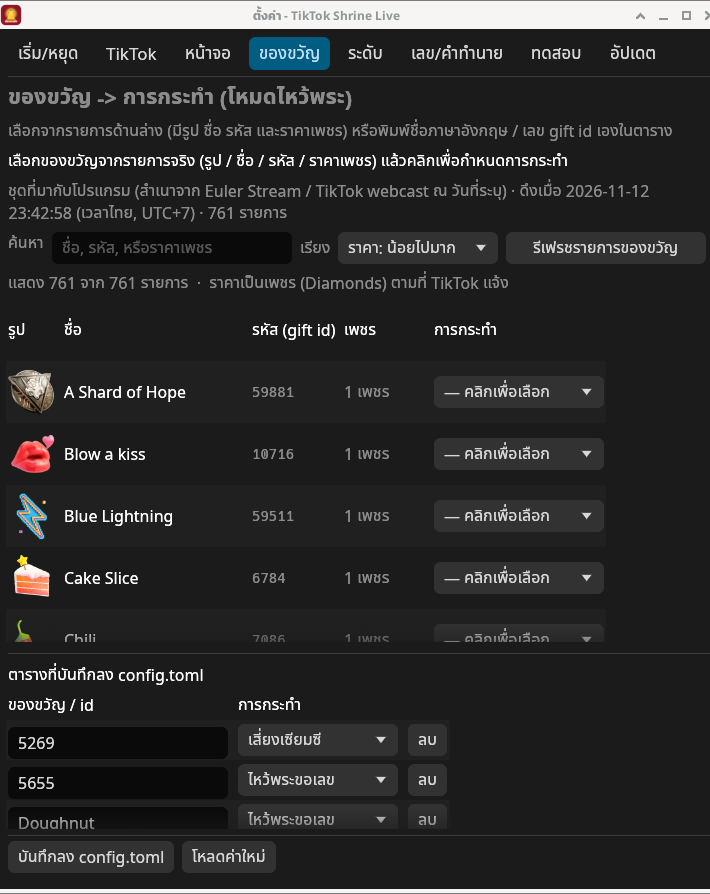
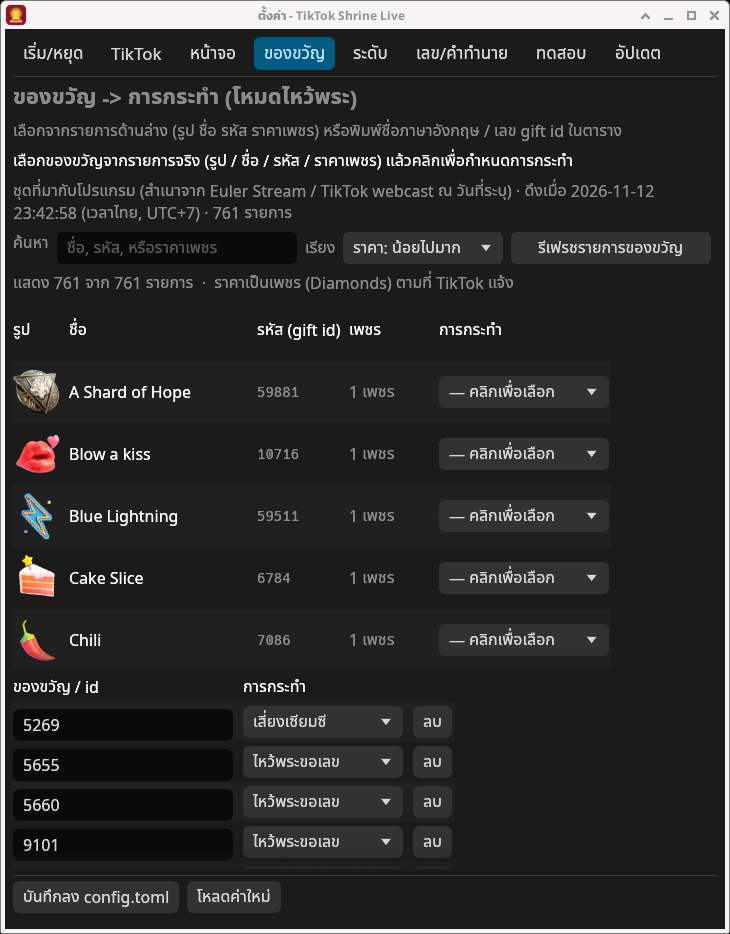
Fix default gift mappings to match the real catalog
Replace retired names: Hand Hearts -> Hand Heart (id 5660, 100 diamonds)
and Universe -> TikTok Universe (id 9101). Every default mapping in
config.toml and config.example.toml is checked against the bundled
761-gift snapshot. Docs examples and the picker screenshot are updated
so catalog rows are no longer clipped at the scroll edge.

diff --git a/src/gifts.rs b/src/gifts.rs
@@ -669,4 +669,36 @@ mod tests {
         );
         let _ = std::fs::remove_dir_all(dir);
     }
+
+    #[test]
+    fn default_mappings_exist_in_bundled_catalog() {
+        let cat = GiftCatalog::bundled().expect("bundled snapshot");
+        let builtin = crate::config::Config::builtin();
+        let example: crate::config::Config = toml::from_str(include_str!("../config.example.toml"))
+            .expect("config.example.toml must parse");
+        for (label, cfg) in [("config.toml", &builtin), ("config.example.toml", &example)] {
+            let sections = [
+                ("[gifts]", &cfg.gifts),
+                ("[krathong.gifts]", &cfg.krathong.gifts),
+                ("[cat.gifts]", &cfg.cat.gifts),
+            ];
+            for (section, map) in sections {
+                for key in map.keys() {
+                    assert!(
+                        cat.find_by_key(key).is_some(),
+                        "{label} {section} key {key:?} is not in the bundled catalog"
+                    );
+                }
+            }
+        }
+        assert!(cat.find_by_key("Hand Heart").is_some());
+        assert!(cat.find_by_key("5660").is_some());
+        assert!(cat.find_by_key("TikTok Universe").is_some());
+        assert_eq!(
+            cat.find_by_key("9101").map(|g| g.name.as_str()),
+            Some("TikTok Universe")
+        );
+        assert!(cat.find_by_key("Hand Hearts").is_none());
+        assert!(cat.find_by_key("Universe").is_none());
+    }
 }

diff --git a/src/app.rs b/src/app.rs
@@ -1868,7 +1868,7 @@ impl ShrineApp {
     // ------------------------------------------------------------------ settings window
     fn settings_ui(&mut self, ctx: &egui::Context) {
         let mut open = self.settings_open;
-        let vb = ViewportBuilder::default().with_title("ตั้งค่า - TikTok Shrine Live").with_inner_size([720.0, 860.0]).with_min_inner_size([480.0, 400.0]);
+        let vb = ViewportBuilder::default().with_title("ตั้งค่า - TikTok Shrine Live").with_inner_size([720.0, 900.0]).with_min_inner_size([480.0, 400.0]);
         ctx.show_viewport_immediate(ViewportId::from_hash_of("settings"), vb, |ui, _class| {
             let ctx = &ui.ctx().clone();
             if ctx.input(|i| i.viewport().close_requested()) {

diff --git a/src/gift_picker.rs b/src/gift_picker.rs
@@ -182,7 +182,10 @@ impl GiftPicker {
         ));
 
         let row_h = 56.0;
-        let max_h = 340.0;
+        let row_gap = 6.0;
+        let visible_body = 5.0;
+        // header + N complete body rows (no clipped last row)
+        let max_h = row_h * (1.0 + visible_body) + row_gap * visible_body;
         egui::ScrollArea::vertical()
             .id_salt("gift-catalog")
             .auto_shrink([false, false])
